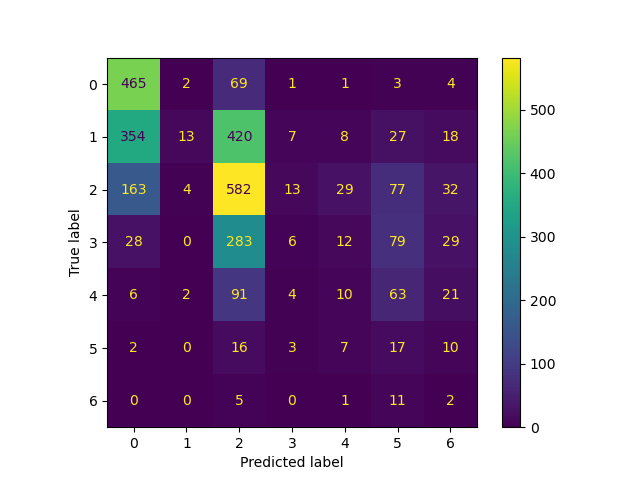
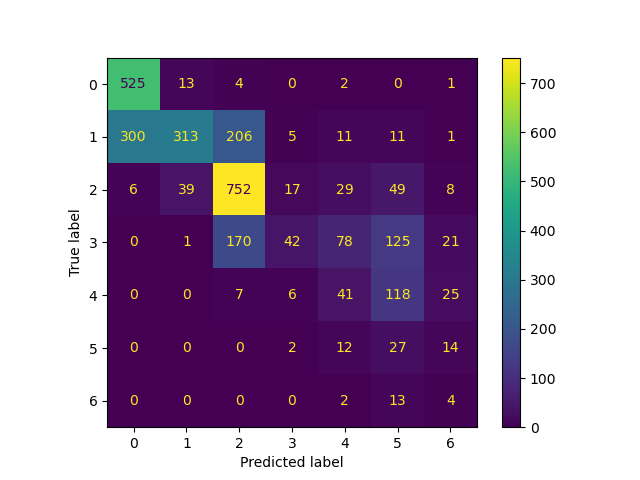
Optimized Naive Bayes

diff --git a/Ex1/Loan/Naive Bayes.py b/Ex1/Loan/Naive Bayes.py
@@ -32,7 +32,7 @@ def classify():
     x_train, x_test, y_train, y_test = train_test_split(x, y, test_size=0.3, random_state=1)  # 70% train, 30% test
 
     # Create Naive Bayes classifier
-    model = GaussianNB()
+    model = GaussianNB(var_smoothing=1e-12)
 
     start = time.time()
 
